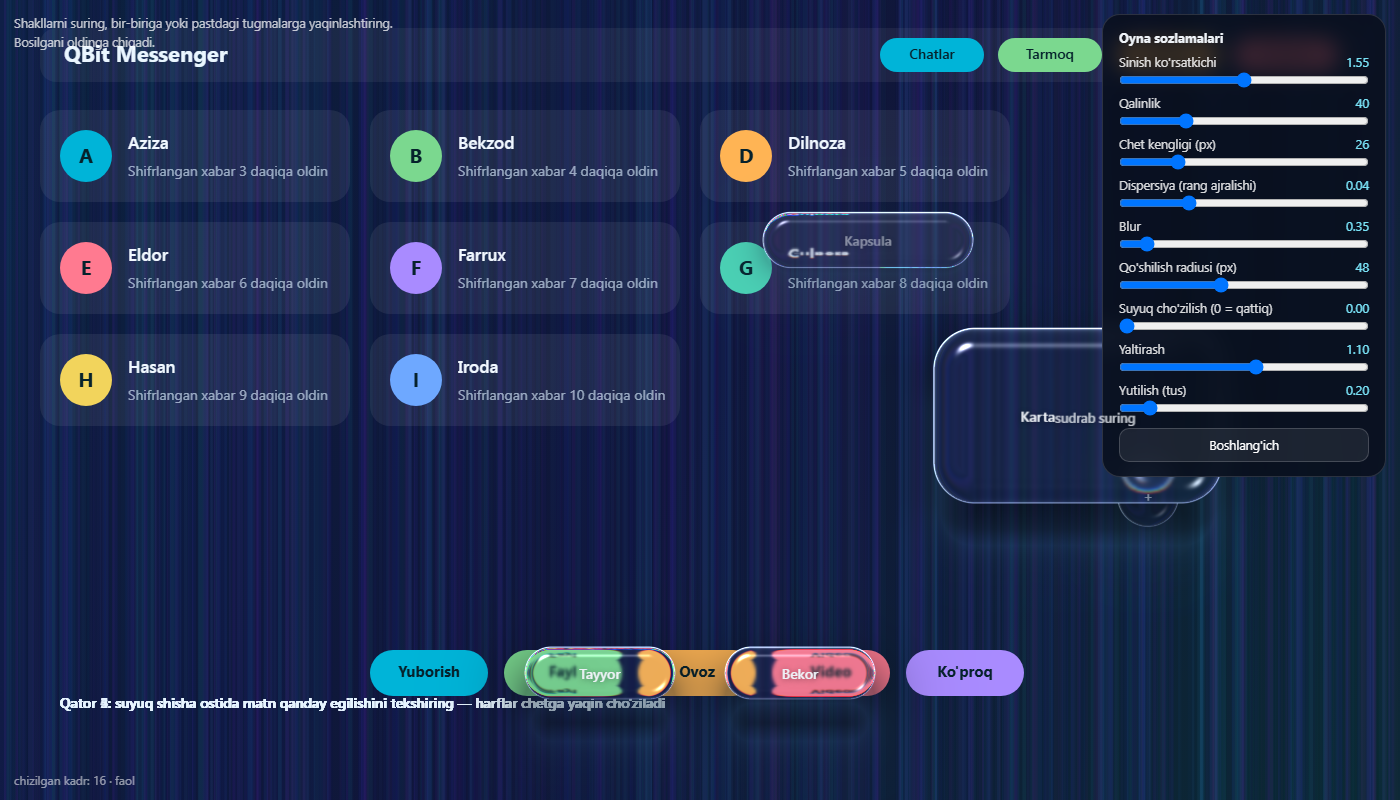
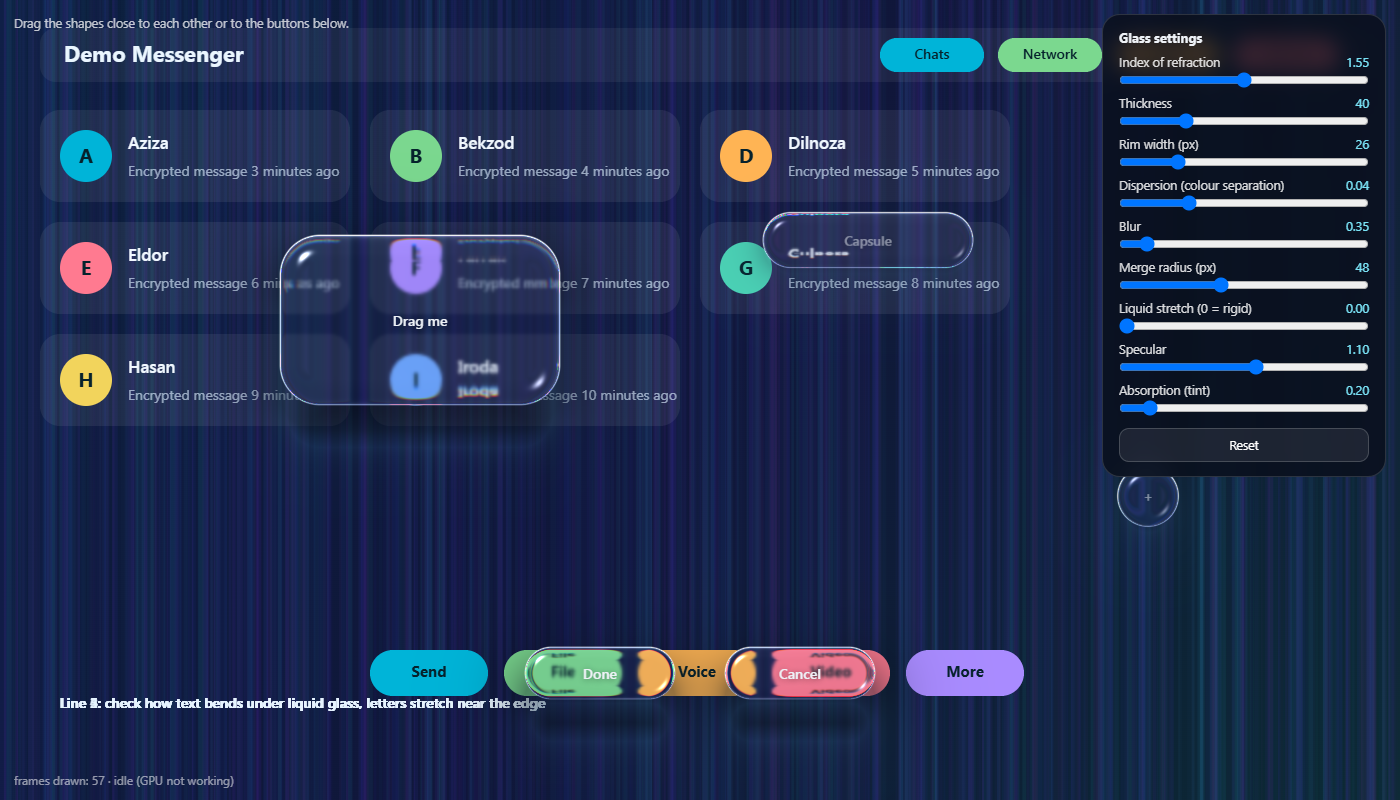
Demo and screenshots in English, social preview image

diff --git a/web/demo/water.html b/web/demo/water.html
@@ -41,15 +41,15 @@ try {
   draw(); addEventListener('resize', draw);
 
   const label = (html) => { const el = document.createElement('div'); el.className = 'lbl'; el.innerHTML = html; document.body.appendChild(el); return el; };
-  water.add({ w: 280, h: 170, radius: 40 }, { x: W * 0.3, y: H * 0.4 }, label('Card<small>drag me</small>'));
-  water.add({ w: 220, h: 58, radius: 29 }, { x: W * 0.62, y: H * 0.3 }, label('Kapsula'));
+  water.add({ w: 280, h: 170, radius: 40 }, { x: W * 0.3, y: H * 0.4 }, label('Drag me'));
+  water.add({ w: 220, h: 58, radius: 29 }, { x: W * 0.62, y: H * 0.3 }, label('Capsule'));
   water.add({ w: 64, h: 64, radius: 32 }, { x: W * 0.82, y: H * 0.62 }, label('+'));
-  water.add({ w: 150, h: 52, radius: 26, draggable: false, anchored: true }, { x: W / 2 - 100, y: by }, label('Tayyor'));
-  water.add({ w: 150, h: 52, radius: 26, draggable: false, anchored: true }, { x: W / 2 + 100, y: by }, label('Bekor'));
+  water.add({ w: 150, h: 52, radius: 26, draggable: false, anchored: true }, { x: W / 2 - 100, y: by }, label('Done'));
+  water.add({ w: 150, h: 52, radius: 26, draggable: false, anchored: true }, { x: W / 2 + 100, y: by }, label('Cancel'));
 
   // Panel: settings are built from the schema
   const panel = document.getElementById('panel');
-  panel.innerHTML = '<h2>Suv xususiyatlari</h2><div id="presets"></div><h3>Suyuqlik</h3><div id="fl"></div><h3>Shisha</h3><div id="gl"></div>';
+  panel.innerHTML = '<h2>Water properties</h2><div id="presets"></div><h3>Fluid</h3><div id="fl"></div><h3>Glass</h3><div id="gl"></div>';
   const sliders = [];
   const addSlider = (host, key, spec, get, set) => {
     const l = document.createElement('label');
@@ -60,21 +60,21 @@ try {
     host.appendChild(l); sliders.push(sync); sync();
   };
   for (const [k, s] of Object.entries(PARAM_SCHEMA)) addSlider(panel.querySelector('#fl'), k, s, () => water.fluid.params[k], (v) => water.fluid.set({ [k]: v }));
-  const glassSchema = { ior: [1.1, 2, 0.01, 'Sinish ko\'rsatkichi'], thick: [0, 160, 1, 'Qalinlik'], bevel: [8, 90, 1, 'Chet kengligi'], disp: [0, 0.15, 0.002, 'Dispersiya'], blur: [0, 4, 0.05, 'Blur'], spec: [0, 2, 0.05, 'Yaltirash'], absorb: [0, 2, 0.05, 'Yutilish'] };
+  const glassSchema = { ior: [1.1, 2, 0.01, 'Index of refraction'], thick: [0, 160, 1, 'Thickness'], bevel: [8, 90, 1, 'Rim width'], disp: [0, 0.15, 0.002, 'Dispersion'], blur: [0, 4, 0.05, 'Blur'], spec: [0, 2, 0.05, 'Specular'], absorb: [0, 2, 0.05, 'Absorption'] };
   for (const [k, [min, max, step, label]] of Object.entries(glassSchema)) addSlider(panel.querySelector('#gl'), k, { min, max, step, label }, () => water.glass[k], (v) => { water.glass[k] = v; });
 
   const pbox = panel.querySelector('#presets');
   Object.keys(PRESETS).forEach((name) => {
-    const b = document.createElement('button'); b.textContent = { water: 'Suv', honey: 'Asal', mercury: 'Simob' }[name] || name;
+    const b = document.createElement('button'); b.textContent = { water: 'Water', honey: 'Honey', mercury: 'Mercury' }[name] || name;
     b.addEventListener('click', () => { water.fluid.preset(name); sliders.forEach(f => f()); pbox.querySelectorAll('button').forEach(x => x.classList.toggle('on', x === b)); water.wake(); });
     pbox.appendChild(b);
   });
   pbox.firstChild.classList.add('on');
 
   const stat = document.getElementById('stat');
-  setInterval(() => { stat.textContent = `zarracha: ${water.fluid.n} · kadr: ${water.drawn} · ${water.idle >= 3 ? 'bo\'sh' : 'faol'}`; }, 400);
+  setInterval(() => { stat.textContent = `particles: ${water.fluid.n} · frames: ${water.drawn} · ${water.idle >= 3 ? 'idle' : 'active'}`; }, 400);
   window.__water = water;
-  document.title += ' [tayyor]';
+  document.title += ' [ready]';
 } catch (e) { document.getElementById('err').textContent = String(e.message || e); }
 </script>
 </body>

diff --git a/web/demo/scene-art.js b/web/demo/scene-art.js
@@ -1,4 +1,4 @@
-// Demo sahna rasmi (fon + ilova interfeysi). Haqiqiy loyihada bu sizning o'zingizning canvas/rasm/video'ingiz.
+// Demo scene image (background + app interface). In a real project this is your own canvas, image or video.
 function rng(seed){ let a = seed >>> 0; return () => { a = (a + 0x6D2B79F5) >>> 0; let t = a; t = Math.imul(t ^ (t >>> 15), t | 1); t ^= t + Math.imul(t ^ (t >>> 7), t | 61); return ((t ^ (t >>> 14)) >>> 0) / 4294967296; }; }
 function rr(g, x, y, w, h, r){ g.beginPath(); g.roundRect(x, y, w, h, r); }
 export function makeScene(w, h, dpr){
@@ -15,8 +15,8 @@ export function makeScene(w, h, dpr){
   // ilova sarlavhasi va kartalar
   g.textBaseline = 'middle';
   g.fillStyle = 'rgba(255,255,255,.06)'; rr(g, 40, 28, W - 80, 54, 16); g.fill();
-  g.fillStyle = '#eaf6ff'; g.font = '700 22px Segoe UI, sans-serif'; g.fillText('QBit Messenger', 64, 56);
-  const chips = [['#00b4d8', 'Chatlar'], ['#7bd88f', 'Tarmoq'], ['#ffb454', 'Kalitlar'], ['#ff7a90', 'Sozlama']];
+  g.fillStyle = '#eaf6ff'; g.font = '700 22px Segoe UI, sans-serif'; g.fillText('Demo Messenger', 64, 56);
+  const chips = [['#00b4d8', 'Chats'], ['#7bd88f', 'Network'], ['#ffb454', 'Keys'], ['#ff7a90', 'Settings']];
   chips.forEach(([col, tx], i) => {
     const x = W - 520 + i * 118, y = 38;
     g.fillStyle = col; rr(g, x, y, 104, 34, 17); g.fill();
@@ -30,10 +30,10 @@ export function makeScene(w, h, dpr){
     g.fillStyle = cols[i]; g.beginPath(); g.arc(x + 46, y + 46, 26, 0, 7); g.fill();
     g.fillStyle = '#06222c'; g.font = '700 20px Segoe UI, sans-serif'; g.textAlign = 'center'; g.fillText(names[i][0], x + 46, y + 47); g.textAlign = 'left';
     g.fillStyle = '#f1f8ff'; g.font = '600 17px Segoe UI, sans-serif'; g.fillText(names[i], x + 88, y + 34);
-    g.fillStyle = 'rgba(220,238,255,.65)'; g.font = '14px Segoe UI, sans-serif'; g.fillText('Shifrlangan xabar ' + (i + 3) + ' daqiqa oldin', x + 88, y + 62);
+    g.fillStyle = 'rgba(220,238,255,.65)'; g.font = '14px Segoe UI, sans-serif'; g.fillText('Encrypted message ' + (i + 3) + ' minutes ago', x + 88, y + 62);
   }
-  // pastdagi "tagidagi" tugmalar qatori: shisha ular ustidan o'tganda sinishni aniq ko'rsatadi
-  const by = H - 150, labels = ['Yuborish', 'Fayl', 'Ovoz', 'Video', 'Ko\'proq'];
+  // a row of buttons at the bottom: the refraction is easy to see when the glass moves over them
+  const by = H - 150, labels = ['Send', 'File', 'Voice', 'Video', 'More'];
   const bcols = ['#00b4d8', '#7bd88f', '#ffb454', '#ff7a90', '#a98bff'];
   labels.forEach((tx, i) => {
     const x = W / 2 - 330 + i * 134;
@@ -41,6 +41,6 @@ export function makeScene(w, h, dpr){
     g.fillStyle = '#06222c'; g.font = '700 15px Segoe UI, sans-serif'; g.textAlign = 'center'; g.fillText(tx, x + 59, by + 23); g.textAlign = 'left';
   });
   g.fillStyle = 'rgba(230,244,255,.8)'; g.font = '500 14px Segoe UI, sans-serif';
-  for (let i = 0; i < 6; i++) g.fillText('Qator ' + (i + 1) + ': suyuq shisha ostida matn qanday egilishini tekshiring — harflar chetga yaqin cho\'ziladi', 60, H - 96 + i * 0);
+  for (let i = 0; i < 6; i++) g.fillText('Line ' + (i + 1) + ': check how text bends under liquid glass, letters stretch near the edge', 60, H - 96 + i * 0);
   return c;
 }

diff --git a/web/demo/index.html b/web/demo/index.html
@@ -22,7 +22,7 @@
 </head>
 <body>
 <canvas id="c"></canvas>
-<div id="hint">Drag the shapes and bring them close to each other or to the buttons below. The one you press comes to the front.</div>
+<div id="hint">Drag the shapes close to each other or to the buttons below.</div>
 <div id="panel"></div>
 <div id="stat"></div>
 <div id="err"></div>
@@ -39,14 +39,14 @@ try {
   addEventListener('resize', draw);
 
   const label = (html) => { const el = document.createElement('div'); el.className = 'lbl'; el.innerHTML = html; document.body.appendChild(el); return el; };
-  glass.add({ w: 280, h: 170, radius: 40 }, { x: W * 0.3, y: H * 0.4 }, label('Card<small>drag me</small>'));
-  glass.add({ w: 220, h: 58, radius: 29 }, { x: W * 0.62, y: H * 0.3 }, label('Kapsula'));
+  glass.add({ w: 280, h: 170, radius: 40 }, { x: W * 0.3, y: H * 0.4 }, label('Drag me'));
+  glass.add({ w: 220, h: 58, radius: 29 }, { x: W * 0.62, y: H * 0.3 }, label('Capsule'));
   glass.add({ w: 64, h: 64, radius: 32 }, { x: W * 0.82, y: H * 0.62 }, label('+'));
-  glass.add({ w: 150, h: 52, radius: 26, draggable: false }, { x: W / 2 - 100, y: by }, label('Tayyor'));
-  glass.add({ w: 150, h: 52, radius: 26, draggable: false }, { x: W / 2 + 100, y: by }, label('Bekor'));
+  glass.add({ w: 150, h: 52, radius: 26, draggable: false }, { x: W / 2 - 100, y: by }, label('Done'));
+  glass.add({ w: 150, h: 52, radius: 26, draggable: false }, { x: W / 2 + 100, y: by }, label('Cancel'));
 
   const stat = document.getElementById('stat');
-  setInterval(() => { stat.textContent = `chizilgan kadr: ${glass.drawn} · ${glass.idle >= 3 ? 'bo\'sh (GPU ishlamayapti)' : 'faol'}`; }, 400);
+  setInterval(() => { stat.textContent = `frames drawn: ${glass.drawn} · ${glass.idle >= 3 ? 'idle (GPU not working)' : 'active'}`; }, 400);
   // Settings panel: built automatically from GLASS_SCHEMA
   const panel = document.getElementById('panel');
   panel.innerHTML = '<h2>Glass settings</h2>';
@@ -59,11 +59,11 @@ try {
     inp.addEventListener('input', () => { glass.params[k] = parseFloat(inp.value); sync(); glass.wake(); });
     panel.appendChild(l); syncs.push(sync); sync();
   }
-  const reset = document.createElement('button'); reset.textContent = 'Boshlang\'ich';
+  const reset = document.createElement('button'); reset.textContent = 'Reset';
   reset.addEventListener('click', () => { Object.assign(glass.params, defaultParams(), { elastic: 0 }); syncs.forEach(f => f()); glass.wake(); });
   panel.appendChild(reset);
   window.__glass = glass;
-  document.title += ' [tayyor]';
+  document.title += ' [ready]';
 } catch (e) { document.getElementById('err').textContent = String(e.message || e); }
 </script>
 </body>
